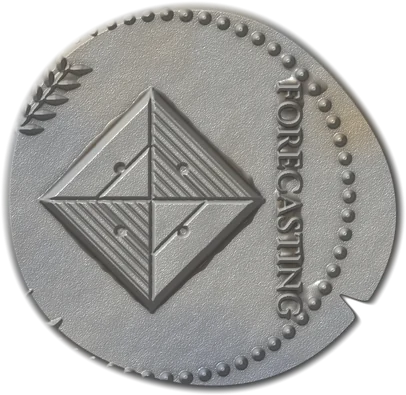
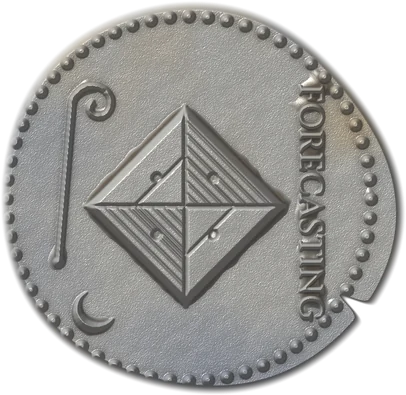
Redesign fixes: even coin sizes, soft sprite flame, lituus on Forecasting coin, full-width cloth, fluid layout
Claude-Session: https://claude.ai/code/session_013sMfdZ8pBM5dFZUEduYaa7

diff --git a/assets/css/site.css b/assets/css/site.css
@@ -50,8 +50,7 @@ body.home { font-size: clamp(15px, min(1.22vw, 2.2vh), 20.5px); }
 /* ---------------------------------------------------------------- the table and its cloths */
 .table {
   position: relative; isolation: isolate; overflow: hidden;
-  max-width: 1760px; min-height: 100vh; min-height: 100dvh; margin-inline: auto;
-  box-shadow: 0 0 60px rgba(0, 0, 0, .22); display: flex; flex-direction: column;
+  min-height: 100vh; min-height: 100dvh; display: flex; flex-direction: column;
 }
 .cloth { position: absolute; inset: 0; }
 .cloth.linen {
@@ -103,23 +102,28 @@ body.sub .wrap { max-width: calc(46rem + 2 * clamp(18px, 5vw, 64px)); }
 /* the oil lamp: click to light it (night) or put it out (day) */
 .lamp {
   appearance: none; border: 0; padding: 0; background: none; cursor: pointer; position: relative;
-  width: clamp(90px, 13vh, 124px); filter: var(--coin-shadow); transform: rotate(-8deg);
+  width: clamp(90px, 13vh, 124px); transform: rotate(-8deg);
 }
-.lamp img { display: block; width: 100%; height: auto; }
+.lamp-body { display: block; width: 100%; height: auto; filter: var(--coin-shadow); }
+/* the wick sits at 86.5% / 48% of the lamp image */
 .flame {
-  position: absolute; left: 86.5%; top: 48%; width: 20%; aspect-ratio: 1 / 2.1;
-  transform: translate(-50%, -92%) rotate(84deg); transform-origin: 50% 92%;
-  border-radius: 50% 50% 50% 50% / 64% 64% 36% 36%; opacity: 0; transition: opacity .4s;
-  background: radial-gradient(ellipse at 50% 72%, #fff8e0 0 18%, #ffd36b 34%, #ff9a2e 58%, rgba(255, 120, 30, 0) 72%);
-  mix-blend-mode: screen;
+  position: absolute; left: 62.7%; top: 2%; width: 85%; height: auto; pointer-events: none; filter: brightness(1.3);
+  opacity: 0; transition: opacity .5s ease; transform-origin: 28% 50%; mix-blend-mode: screen;
 }
-.flame::after { content: ""; position: absolute; inset: -120%; border-radius: 50%; background: radial-gradient(circle, rgba(255, 190, 100, .45), rgba(255, 160, 70, 0) 60%); }
-:root[data-night="1"] .flame { opacity: 1; animation: dance 1.4s infinite ease-in-out; }
+.halo {
+  position: absolute; left: 86.5%; top: 48%; width: 260%; aspect-ratio: 1; pointer-events: none;
+  transform: translate(-50%, -50%); border-radius: 50%; opacity: 0; transition: opacity .8s ease; mix-blend-mode: screen;
+  background: radial-gradient(circle closest-side, rgba(255, 214, 140, .55) 0%, rgba(255, 184, 100, .26) 20%, rgba(255, 162, 72, .10) 46%, rgba(255, 150, 60, .03) 72%, rgba(255, 150, 60, 0) 100%);
+}
+:root[data-night="1"] .flame { opacity: 1; animation: dance 1.6s infinite ease-in-out; }
+:root[data-night="1"] .halo { opacity: 1; animation: breathe 2.8s infinite ease-in-out; }
 @keyframes dance {
-  0%, 100% { transform: translate(-50%, -92%) rotate(84deg) scaleY(1); }
-  30% { transform: translate(-50%, -92%) rotate(80deg) scaleY(1.08) scaleX(.94); }
-  60% { transform: translate(-50%, -92%) rotate(88deg) scaleY(.95); }
+  0%, 100% { transform: scale(1, 1) skewY(0deg); opacity: 1; }
+  23% { transform: scale(1.07, .95) skewY(-2deg); opacity: .94; }
+  48% { transform: scale(.94, 1.04) skewY(1.5deg); opacity: 1; }
+  74% { transform: scale(1.03, .97) skewY(-1deg); opacity: .96; }
 }
+@keyframes breathe { 0%, 100% { opacity: 1; } 35% { opacity: .82; } 60% { opacity: .95; } 80% { opacity: .86; } }
 .smoke { position: absolute; left: 84%; top: 36%; width: 26%; height: 70%; pointer-events: none; opacity: 0; transform: rotate(8deg); }
 .smoke.go { animation: smoke 2.2s ease-out; }
 .smoke path { fill: none; stroke: rgba(90, 80, 70, .55); stroke-width: 2; stroke-linecap: round; }
@@ -147,21 +151,24 @@ a.coin:focus-visible { outline-offset: 6px; border-radius: 50%; }
 
 /* ---------------------------------------------------------------- homepage */
 .home-grid {
-  flex: 1; display: grid; grid-template-columns: minmax(0, 44rem) minmax(0, 1fr);
+  flex: 1; display: grid; grid-template-columns: minmax(0, 1.55fr) minmax(0, 1fr);
   gap: clamp(20px, 4vw, 72px); margin-top: clamp(12px, 3vh, 40px); align-items: start;
 }
 .intro p { margin: 0 0 .85em; text-wrap: pretty; text-shadow: 0 1px 2px var(--halo); }
 .intro a, .page a { color: var(--link); text-decoration-thickness: 1px; text-underline-offset: 3px; transition: color .7s; }
 .intro a:hover, .page a:hover { color: var(--link-hover); }
 .intro .email { font-style: italic; user-select: all; }
-.float { width: clamp(104px, min(12vw, 19vh), 178px); shape-outside: circle(50%); shape-margin: 12px; margin-block: .1em .4em; }
+.float { width: clamp(96px, min(12vw, 19vh), 168px); shape-outside: circle(50%); shape-margin: 12px; margin-block: .1em .4em; }
 .float.r { float: right; margin-left: clamp(12px, 1.6vw, 24px); }
 .float.l { float: left; margin-right: clamp(12px, 1.6vw, 24px); }
-.purse { display: grid; grid-template-columns: repeat(6, 1fr); align-content: start; padding-top: clamp(0px, 3vh, 40px); }
-.purse .coin { width: clamp(130px, min(14vw, 25vh), 232px); }
-.purse .c1 { grid-column: 2 / span 3; }
-.purse .c2 { grid-column: 4 / span 3; margin-top: -13%; justify-self: end; }
-.purse .c3 { grid-column: 1 / span 3; margin-top: -9%; justify-self: center; }
+.purse {
+  position: relative; justify-self: center; width: min(100%, 440px, calc((100vh - 170px) / 1.15));
+  aspect-ratio: 1 / 1.15; margin-top: clamp(0px, 3vh, 40px);
+}
+.purse .coin { position: absolute; width: 40%; }
+.purse .c1 { left: 22%; top: 2%; }
+.purse .c2 { left: 56%; top: 30%; }
+.purse .c3 { left: 12%; top: 58%; }
 
 /* ---------------------------------------------------------------- sub-pages */
 .page { width: 100%; margin-top: clamp(14px, 3vh, 36px); }
@@ -186,7 +193,7 @@ a.coin:focus-visible { outline-offset: 6px; border-radius: 50%; }
 
 /* the page's coin sits in the opening text, which wraps around it */
 .seal {
-  float: right; width: clamp(120px, 14vw, 190px); shape-outside: circle(50%); shape-margin: 14px;
+  float: right; width: clamp(104px, 13vw, 168px); shape-outside: circle(50%); shape-margin: 14px;
   margin: .2em 0 .5em 1.4em; transform: rotate(-7deg); filter: var(--coin-shadow);
 }
 .seal img { display: block; width: 100%; height: auto; }
@@ -212,26 +219,18 @@ a.coin:focus-visible { outline-offset: 6px; border-radius: 50%; }
 .recipe-source { margin-top: 2em; padding-top: .8em; border-top: 1px solid var(--rule); font-size: .9em; color: var(--muted); font-style: italic; }
 
 /* ---------------------------------------------------------------- narrower screens */
-@media (max-width: 980px) {
-  body.home { font-size: clamp(16px, 2.2vw, 19px); }
+/* Everything above scales continuously; the only reflow is the coin cluster moving under the text. */
+@media (max-width: 760px) {
+  body.home { font-size: clamp(16px, 2.4vw, 18px); }
   .home-grid { grid-template-columns: minmax(0, 1fr); }
-  .float { width: clamp(112px, 20vw, 170px); }
-  .purse { grid-template-columns: repeat(3, 1fr); padding-top: 0; gap: 0 8px; }
-  .purse .coin { width: min(100%, 200px); justify-self: center; }
-  .purse .c1, .purse .c2, .purse .c3 { grid-column: auto; margin-top: 0; justify-self: center; }
-  .purse .c2 { margin-top: 14%; }
+  .float { width: clamp(100px, 24vw, 150px); }
+  .purse { width: min(100%, 380px); margin-top: 8px; }
 }
-@media (max-width: 620px) {
-  .float { width: clamp(112px, 33vw, 140px); shape-margin: 10px; }
-  .purse { grid-template-columns: repeat(2, 1fr); gap: 0 4px; }
-  .purse .coin { width: min(100%, 168px); }
-  .purse .c1 { justify-self: end; }
-  .purse .c2 { margin-top: 26%; justify-self: start; }
-  .purse .c3 { grid-column: 1 / -1; margin-top: -12%; }
+@media (max-width: 520px) {
   .nameplate { width: min(56vw, 240px); }
-  .seal { width: clamp(104px, 32vw, 140px); margin-left: 1em; }
+  .seal { width: clamp(100px, 30vw, 136px); margin-left: 1em; }
 }
 @media (prefers-reduced-motion: reduce) {
-  .coin, .nameplate, .cloth.baize, .glow { transition: none; }
-  .flame, .glow, .smoke.go { animation: none !important; }
+  .coin, .nameplate, .cloth.baize, .glow, .flame, .halo { transition: none; }
+  .flame, .halo, .glow, .smoke.go { animation: none !important; }
 }

diff --git a/_includes/masthead.html b/_includes/masthead.html
@@ -5,8 +5,9 @@
   </a>
   {% if include.home %}</h1>{% endif %}
   <button class="lamp" id="lamp" type="button" aria-label="Light the lamp (switch to night)">
-    <img src="{{ '/assets/images/site/lamp.webp' | relative_url }}" alt="" width="205" height="118">
-    <span class="flame"></span>
+    <span class="halo"></span>
+    <img class="lamp-body" src="{{ '/assets/images/site/lamp.webp' | relative_url }}" alt="" width="205" height="118">
+    <img class="flame" src="{{ '/assets/images/site/flame.webp' | relative_url }}" alt="" width="320" height="200">
     <svg class="smoke" id="smoke" viewBox="0 0 40 100" aria-hidden="true"><path d="M20 98 C 8 80, 32 70, 18 52 S 30 24, 16 4"/></svg>
   </button>
 </header>

diff --git a/tools/art/coins3.py b/tools/art/coins3.py
@@ -83,8 +83,8 @@ def leaf(d, x, y, L, W, ang, fill=255):
 
 # ---------------------------------------------------------------- the six coins
 def d_forecasting(e, leg, c, R):
-    """Greek silver tetradrachm: a paper fortune-teller, olive sprig, legend down the right side."""
-    d = ImageDraw.Draw(e); x, y = c[0] - R * .08, c[1] + R * .02; k = R * .6
+    """Greek silver tetradrachm: a paper fortune-teller, an augur's lituus, a crescent, legend down the right side."""
+    d = ImageDraw.Draw(e); x, y = c[0] - R * .02, c[1] + R * .04; k = R * .54
     petals = [[(x, y), (x - k, y), (x, y - k)], [(x, y), (x, y - k), (x + k, y)],
               [(x, y), (x + k, y), (x, y + k)], [(x, y), (x, y + k), (x - k, y)]]
     for i, p in enumerate(petals):
@@ -99,15 +99,22 @@ def d_forecasting(e, leg, c, R):
     for (sx, sy) in ((-1, -1), (1, -1), (1, 1), (-1, 1)):
         d.line([(x + sx * k * .5, y), (x, y + sy * k * .5)], fill=170, width=max(1, int(R * .012)))
         d.ellipse([x + sx * k * .28 - R * .025, y + sy * k * .28 - R * .025, x + sx * k * .28 + R * .025, y + sy * k * .28 + R * .025], fill=150)
-    # olive sprig upper left, crescent lower left
-    d.line([(c[0] - R * .78, c[1] - R * .38), (c[0] - R * .52, c[1] - R * .7)], fill=230, width=max(2, int(R * .02)))
-    for i in range(5):
-        t = i / 4
-        px, py = c[0] - R * .78 + t * R * .26, c[1] - R * .38 - t * R * .32
-        for s in (-1, 1):
-            leaf(d, px + s * R * .05, py + s * R * .02, R * .13, R * .045, -0.9 + s * 0.9, 240)
-    d.pieslice([c[0] - R * .8, c[1] + R * .5, c[0] - R * .56, c[1] + R * .74], 0, 360, fill=230)
-    d.ellipse([c[0] - R * .76, c[1] + R * .48, c[0] - R * .52, c[1] + R * .68], fill=0)
+    # an augur's lituus (the curved staff used to read omens) on the left, crescent lower left
+    w = max(2, int(R * .036))
+    cx_, cy_ = c[0] - R * .5, c[1] - R * .5
+    r0 = R * .13
+    top = (cx_ - r0, cy_)
+    d.line([(c[0] - R * .7, c[1] + R * .34), top], fill=240, width=w)
+    spiral = []
+    for i in range(120):
+        t = i / 119 * 2.25 * math.pi
+        r = r0 * (1 - t / (2.6 * math.pi))
+        a_ = math.pi + t
+        spiral.append((cx_ + r * math.cos(a_), cy_ + r * math.sin(a_)))
+    d.line(spiral, fill=240, width=w, joint="curve")
+    d.ellipse([c[0] - R * .7 - w * .8, c[1] + R * .34 - w * .8, c[0] - R * .7 + w * .8, c[1] + R * .34 + w * .8], fill=240)
+    d.pieslice([c[0] - R * .62, c[1] + R * .5, c[0] - R * .4, c[1] + R * .72], 0, 360, fill=230)
+    d.ellipse([c[0] - R * .58, c[1] + R * .48, c[0] - R * .36, c[1] + R * .66], fill=0)
     text_line(leg, c[0] + R * .66, c[1] + R * .02, "FORECASTING", F("greek", int(R * .17)), angle=-90, track=1.0)
 
 def d_writing(e, leg, c, R):
@@ -256,7 +263,7 @@ def d_moon(e, leg, c, R):
 COINS = {
     "Day":   dict(draw=d_sun, metal="gold", irregular=.3, offc=0, border="dots", era="toggle"),
     "Night": dict(draw=d_moon, metal="silver", irregular=.3, offc=0, border="dots", era="toggle"),
-    "Forecasting":    dict(draw=d_forecasting, metal="silver", irregular=.9, offc=.08, cracks=1, border="dots", era="Greek tetradrachm"),
+    "Forecasting":    dict(draw=d_forecasting, metal="silver", irregular=.9, offc=.025, cracks=1, border="dots", era="Greek tetradrachm"),
     "Writing":        dict(draw=d_writing, metal="bronze", irregular=.35, offc=.02, border="dots_line", era="Roman sestertius"),
     "Tea":            dict(draw=d_tea, metal="electrum", irregular=1.3, offc=.05, cracks=2, border="incuse", era="Archaic electrum"),
     "Carbon capture": dict(draw=d_carbon, metal="silver_bright", irregular=0, offc=0, border="crown", era="18th-century crown"),

diff --git a/tools/art/relics.py b/tools/art/relics.py
@@ -215,3 +215,32 @@ if __name__ == "__main__":
     for f in (plate_brass, plate_ingot, plate_lead, plate_tessera):
         im = f(); print(f.__name__, im.size)
     im, wick = oil_lamp(); print("lamp", im.size, "wick at", wick)
+
+# ---------------------------------------------------------------- lamp flame (seen from above, leaning away from the nozzle)
+def flame(W=320, H=200, seed=6):
+    """A soft flame sprite pointing right. Alpha falls to zero well inside the canvas,
+    so there is never a hard edge when it is scaled or blended."""
+    yy, xx = np.mgrid[0:H, 0:W].astype(float)
+    cx, cy = W * .28, H * .5            # the wick
+    dx = (xx - cx) / W; dy = (yy - cy) / H
+    L = .55                              # flame length (fraction of W) downwind
+    t = np.clip(dx / L, 0, 1)
+    taper = (1 - t * t * (3 - 2 * t)) ** .8          # smooth narrowing toward the tip
+    ay = np.where(dx < 0, .16, .16 * taper + 1e-3)
+    ax = np.where(dx < 0, .07, .30)
+    d = np.sqrt((dx / ax) ** 2 + (dy / ay) ** 2)
+    core = np.exp(-(d / .45) ** 2)
+    body = np.exp(-(d / .95) ** 2)
+    rootblue = np.exp(-((dx + .01) / .03) ** 2 - (dy / .07) ** 2) * .45
+    rgb = (np.array([1.0, .97, .85]) * core[..., None]
+           + np.array([1.0, .62, .18]) * np.clip(body - core, 0, None)[..., None] * 1.25
+           + np.array([.40, .50, 1.0]) * rootblue[..., None])
+    a = np.clip(body * 1.1 + rootblue * .5, 0, 1)
+    # guarantee a clean fade well before the canvas edge
+    ex = np.minimum(xx, W - 1 - xx) / (W * .08); ey = np.minimum(yy, H - 1 - yy) / (H * .12)
+    a = a * np.clip(np.minimum(ex, ey), 0, 1)
+    rgb = np.clip(rgb / np.maximum(a[..., None], 1e-3), 0, 1)
+    out = np.dstack([rgb, a])
+    im = Image.fromarray((out * 255).astype(np.uint8), "RGBA")
+    im.save(OUTD + "flame.webp", quality=92, method=6)
+    return im, (cx / W, cy / H)

diff --git a/tools/art/build.py b/tools/art/build.py
@@ -32,6 +32,7 @@ for name, seed in SEEDS.items():
 relics2.tabula()                    # -> name-tabula.webp
 os.replace(os.path.join(SITE, "name-tabula.webp"), os.path.join(SITE, "nameplate.webp"))
 relics.oil_lamp()                   # -> lamp.webp
+relics.flame()                      # -> flame.webp
 frames.moulding_corners("palmette") # -> frame-bronze-palmette.webp
 os.replace(os.path.join(SITE, "frame-bronze-palmette.webp"), os.path.join(SITE, "frame.webp"))
 frames.mat_paper()                  # -> mat.jpg
